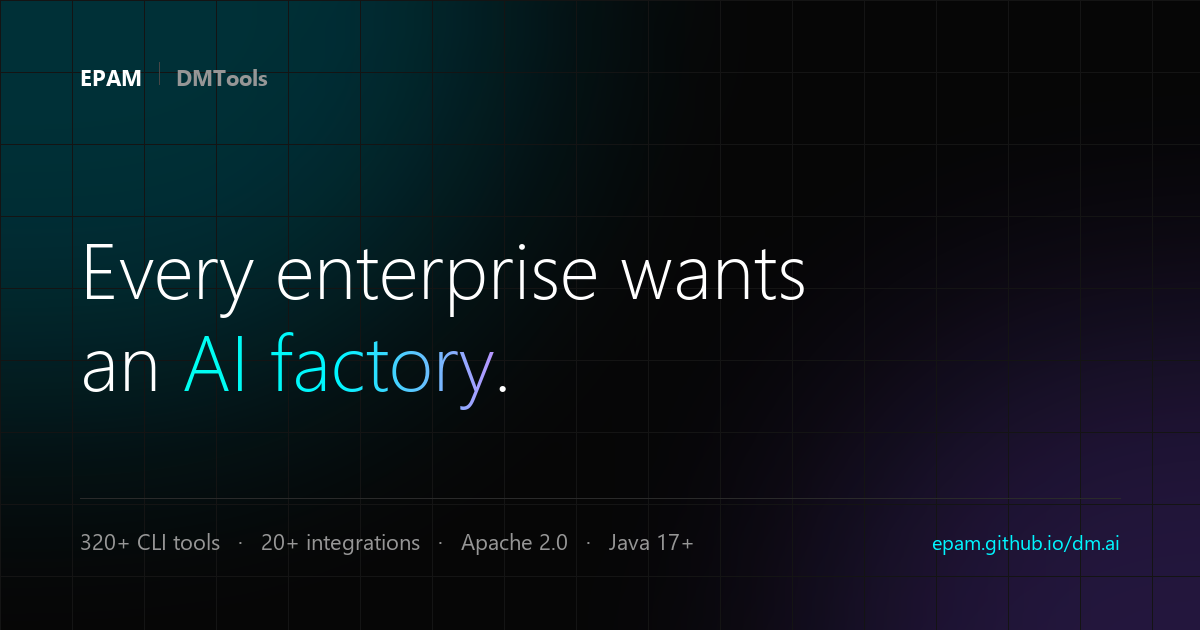
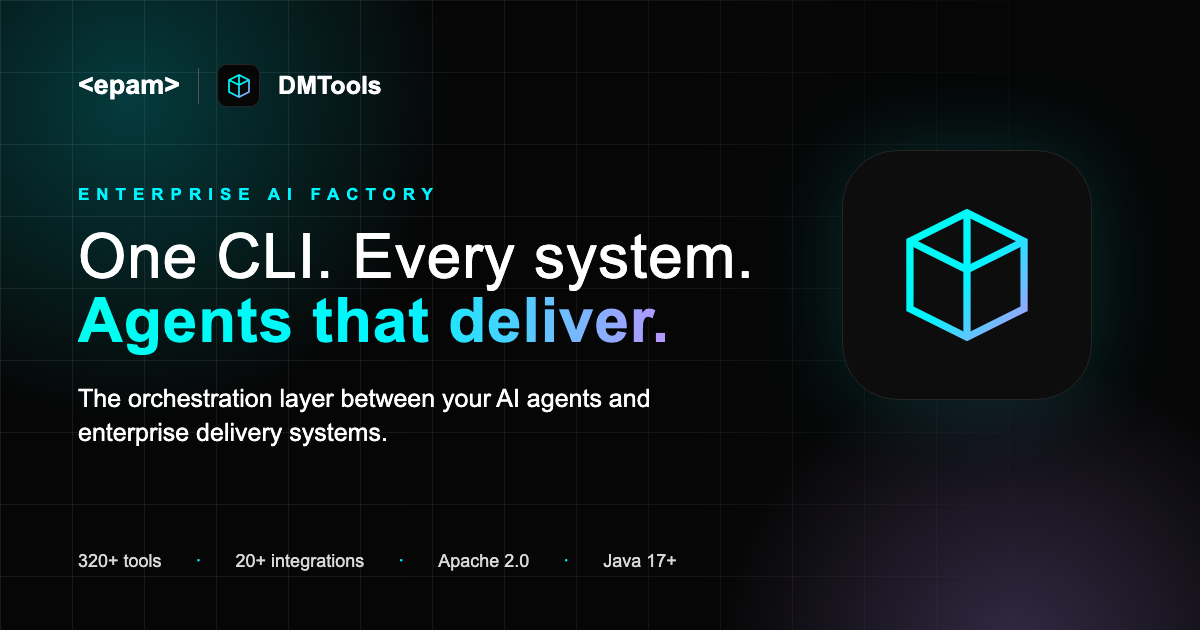
fix(landing): refine branding, themes, badges, and social preview
- Replace the DMT mark with the cube product logo
- Merge CLI proof into the orchestration layer section
- Match the EPAM theme switch and remove language selector
- Add theme-safe pipeline status nodes and real project metrics
- Redesign the social card for cropped Teams previews

diff --git a/landing/src/styles/sections.css b/landing/src/styles/sections.css
@@ -167,11 +167,11 @@
 .theme-switch__track {
   display: block;
   width: 3.25rem;
-  height: 1.75rem;
-  padding: 0.1875rem;
-  border: 1px solid var(--hairline-strong);
+  height: 1.875rem;
+  padding: 0.125rem;
+  border: 2px solid #B8B8B8;
   border-radius: 999px;
-  background: var(--surface-alt);
+  background: var(--canvas);
   transition: background-color 0.2s var(--ease), border-color 0.2s var(--ease);
 }
 
@@ -182,34 +182,23 @@
   width: 1.375rem;
   height: 1.375rem;
   border-radius: 50%;
-  background: var(--text);
-  color: var(--canvas);
+  background: #060606;
+  color: #FFFFFF;
   transform: translateX(0);
   transition: transform 0.25s var(--ease), background-color 0.2s var(--ease), color 0.2s var(--ease);
 }
 
-.theme-switch__icon { display: block; }
+.theme-switch__icon { display: block; width: 14px; height: 14px; }
 .theme-switch__icon--moon { display: none; }
 
 [data-theme='night'] .theme-switch__thumb {
-  transform: translateX(1.5rem);
+  color: #060606;
+  background: #FFFFFF;
+  transform: translateX(1.375rem);
 }
 
 [data-theme='night'] .theme-switch__icon--sun { display: none; }
 [data-theme='night'] .theme-switch__icon--moon { display: block; }
-
-/* Decorative language selector and search icon, mapped from epam.com header. */
-.nav__lang {
-  display: inline-flex;
-  align-items: center;
-  gap: 0.3rem;
-  color: var(--text);
-  font-size: 1rem;
-  font-weight: 600;
-  letter-spacing: 0.035em;
-  white-space: nowrap;
-  cursor: default;
-}
 
 .nav__search {
   display: grid;
@@ -229,7 +218,6 @@
 
 @media (max-width: 760px) {
   .nav__inner { height: 4.75rem; padding-inline: 1rem; }
-  .nav__lang,
   .nav__search,
   .nav__cta { display: none; }
   .brand__epam { width: 62px; }
@@ -431,18 +419,17 @@
   line-height: 1.5;
 }
 
-/* Under the headline rather than beside it, so the display size is untouched. */
-.hero__proof {
+.cli-proof {
   display: grid;
   grid-template-columns: minmax(0, 8fr) minmax(0, 4fr);
   gap: clamp(1.5rem, 3.5vw, 3rem);
   align-items: start;
   padding-top: 2.5rem;
   border-top: 1px solid var(--hairline);
-  margin-top: clamp(4rem, 8vw, 7rem);
+  margin-top: clamp(4rem, 7vw, 6rem);
 }
 
-.hero__stats {
+.cli-proof__stats {
   display: grid;
   gap: 2.25rem;
 }
@@ -550,9 +537,8 @@
   .hero__lead { grid-template-columns: 1fr; }
   .hero__title { max-width: 14ch; }
   .hero__film { width: 100%; justify-self: start; }
-  /* Figures side by side rather than stacked under a full-width panel. */
-  .hero__proof { grid-template-columns: 1fr; gap: 2rem; }
-  .hero__stats { grid-template-columns: repeat(2, minmax(0, 1fr)); gap: 1.5rem; }
+  .cli-proof { grid-template-columns: 1fr; gap: 2rem; }
+  .cli-proof__stats { grid-template-columns: repeat(2, minmax(0, 1fr)); gap: 1.5rem; }
 }
 
 @media (max-width: 720px) {

diff --git a/landing/src/styles/agent-pipeline.css b/landing/src/styles/agent-pipeline.css
@@ -11,6 +11,9 @@
   --ap-accent: var(--sea-ink);
   --ap-glow-a: var(--glow-a);
   --ap-glow-b: var(--glow-b);
+  --ap-status-bg: #DDF5EE;
+  --ap-status-border: #008F78;
+  --ap-status-text: #063D33;
 
   padding: var(--band-top) 0 var(--band-bottom);
   border-top: 1px solid var(--ap-line);
@@ -29,6 +32,9 @@
   --ap-line: var(--hairline-strong);
   --ap-line-soft: color-mix(in srgb, var(--hairline) 55%, transparent);
   --ap-accent: var(--sea);
+  --ap-status-bg: rgba(6, 44, 35, 0.92);
+  --ap-status-border: rgba(0, 255, 190, 0.72);
+  --ap-status-text: #FFFFFF;
 }
 
 .agent-pipeline-section .section-copy {
@@ -323,8 +329,9 @@
 
 .agent-node.status-node {
   min-height: 82px;
-  border-color: rgba(0, 255, 190, 0.72);
-  background: rgba(6, 44, 35, 0.92);
+  border-color: var(--ap-status-border);
+  color: var(--ap-status-text);
+  background: var(--ap-status-bg);
   box-shadow: 0 0 24px rgba(0, 255, 190, 0.12);
 }
 

diff --git a/landing/src/data/content.ts b/landing/src/data/content.ts
@@ -74,7 +74,7 @@ export const meta = {
    * for the image fields, not SVG, so the vector alone would be skipped.
    * Regenerate both together or the tab icon and the schema will disagree.
    */
-  mark: 'assets/dmt-mark.png',
+  mark: 'assets/favicon.svg',
 } as const;
 
 /** softwareVersion tracks gradle.properties — the one field that goes stale silently. */
